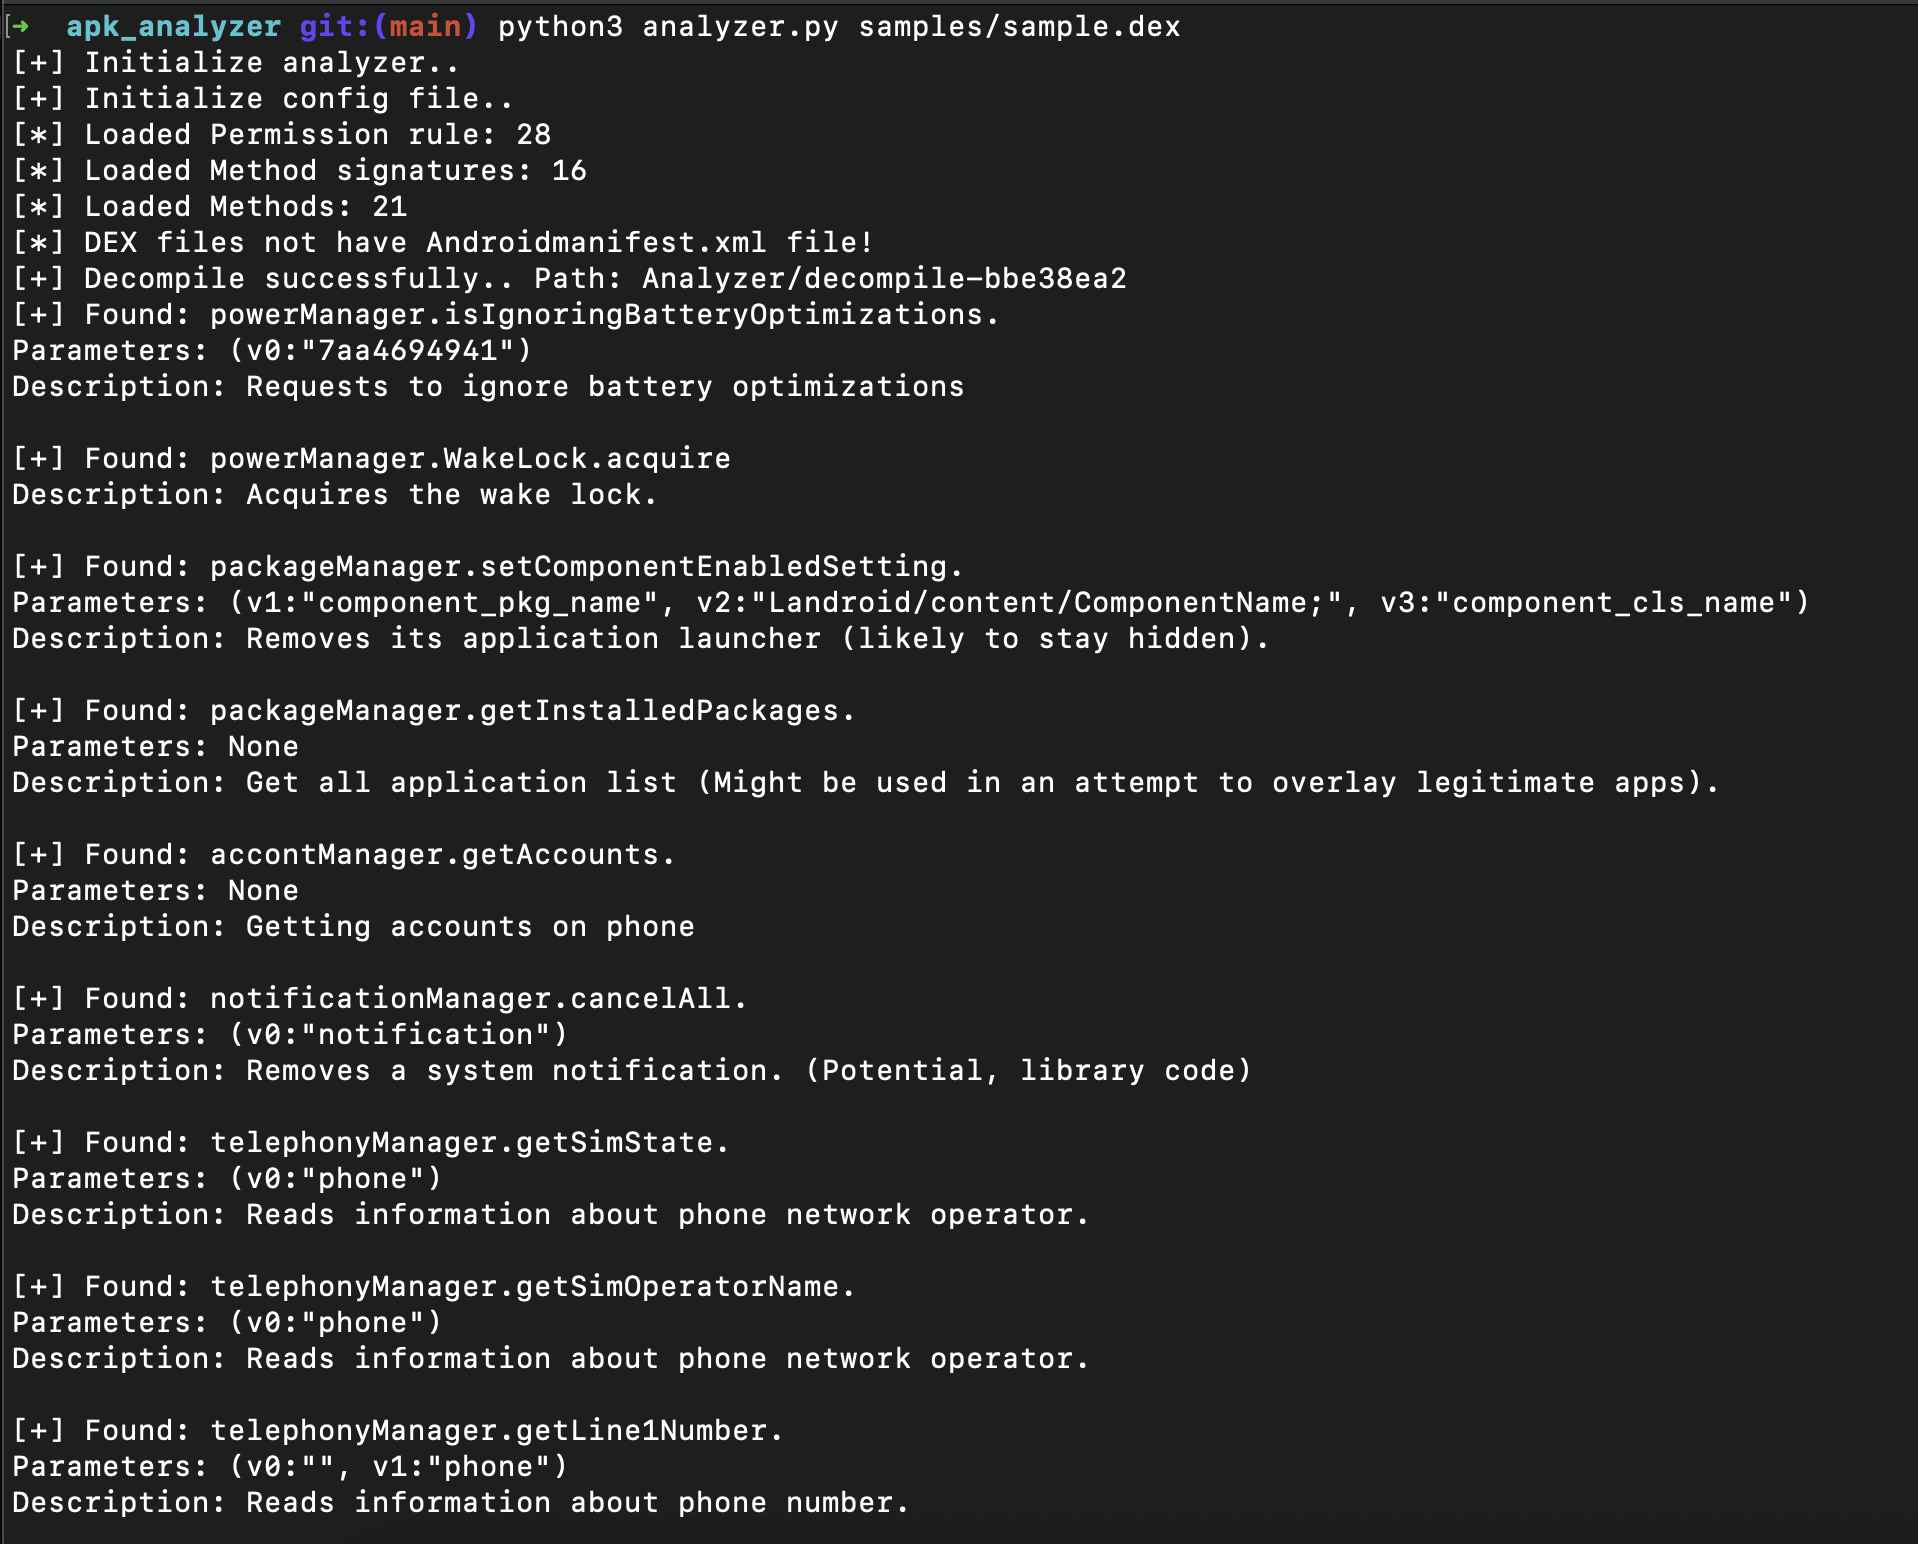
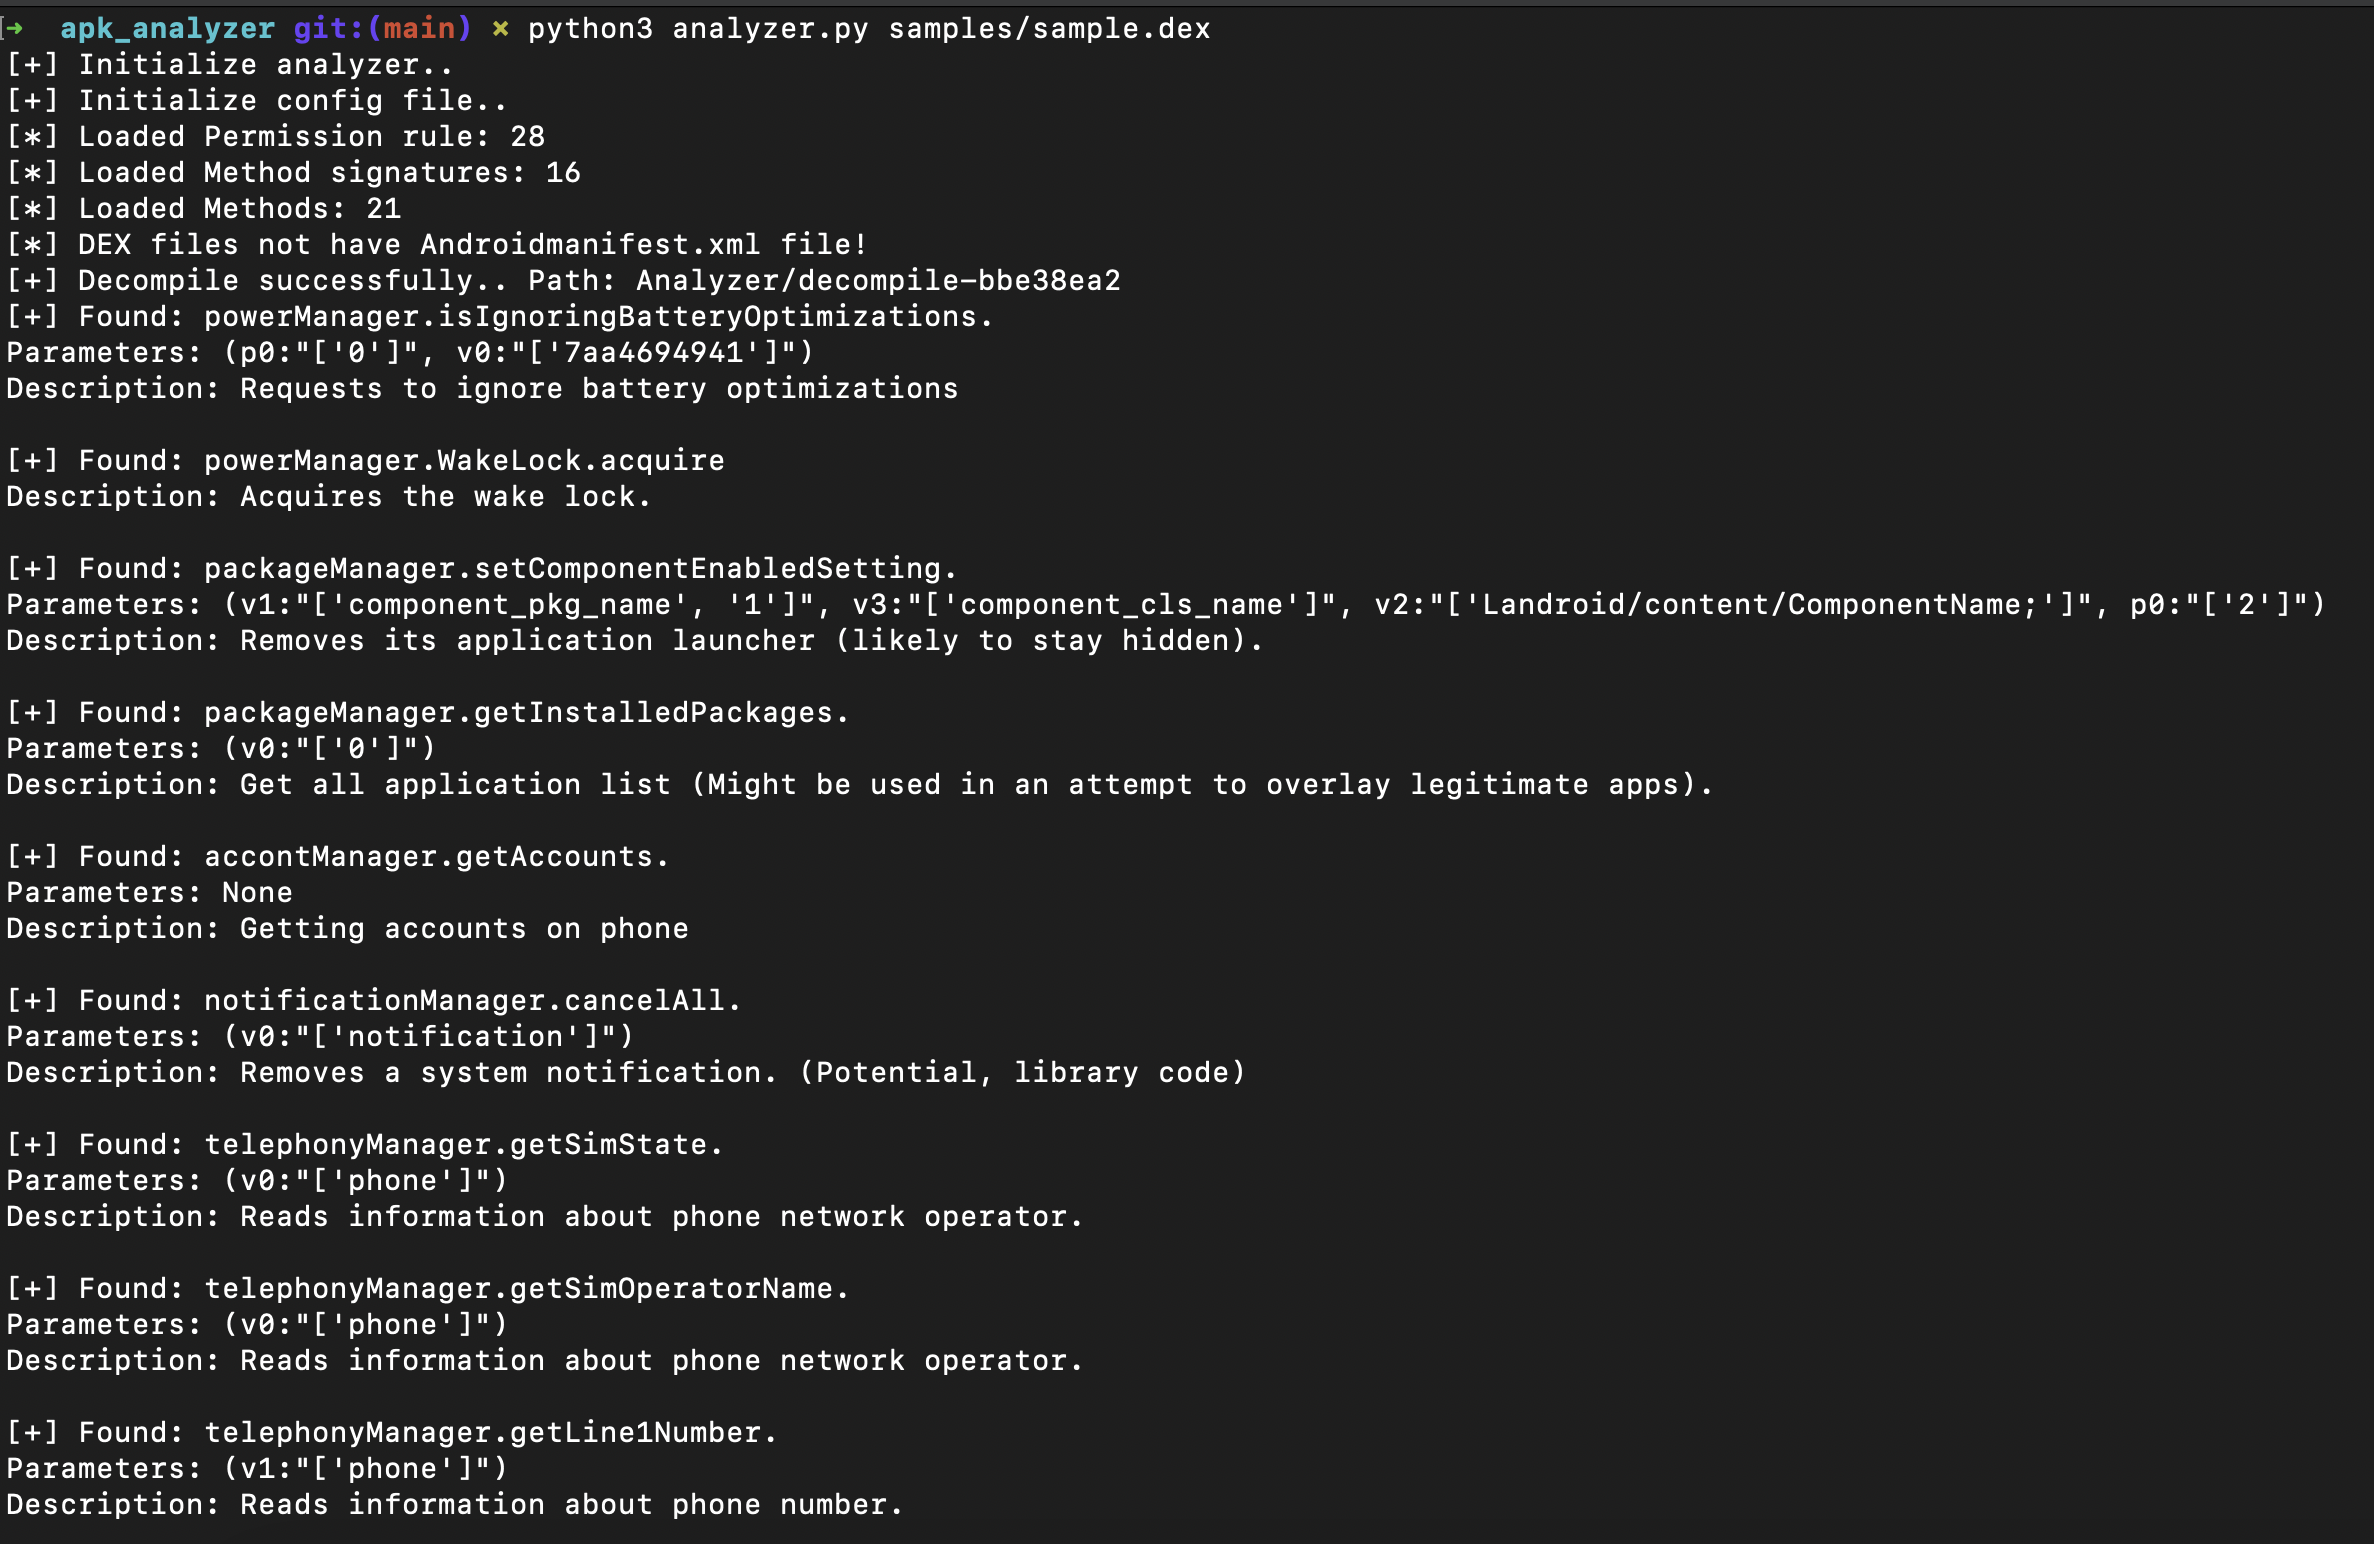
v1

Changed region(s): [[0.0, 0.0, 0.9844, 0.9948]]

diff --git a/analyzer.py b/analyzer.py
@@ -2,6 +2,7 @@ from androguard.misc import AnalyzeAPK
 from androguard.misc import AnalyzeDex
 from pathlib import Path
 from loguru import logger
+from collections import defaultdict
 
 
 import sys
@@ -15,7 +16,7 @@ import argparse
 
 class Analyzer:
     def __init__(self, apkPath, config_file_path, output_dir, debug_mode):
-        self.apk_path = sys.argv[1]
+        self.apk_path = apkPath
         self.output_dir = Path(output_dir)
         self.config_file_path = Path(config_file_path)
         self.debug_mode = debug_mode
@@ -122,10 +123,12 @@ class Analyzer:
                             for key in assignment:
                                 value = assignment[key]
                                 for res_key in res_assignment:
-                                    res_value = res_assignment[res_key]
-                                    if key == res_key:
-                                        if value == res_value:
-                                            ex_founded = False
+                                    res_values = res_assignment[res_key]
+                                    for res_value in res_values:
+                                        if key == res_key:
+                                            print(value, res_value)
+                                            if value == res_value:
+                                                ex_founded = False
 
                         if len(results) != 0 and ex_founded is False:
                             normal_results = "None"
@@ -170,13 +173,18 @@ class Analyzer:
                         if search_query in file.read():
                             return file_path
 
-    def parse_smali_for_method(self, search_invoke) -> set:
+    def parse_smali_for_method(self, search_invoke):
         smali_file_path = self.search_in_smali_files(search_invoke)
         if smali_file_path:
+            assignment_match_regex = (
+                r"(const/\d+|const-string|new-instance|move-result-object)"
+                r" (\w+), \"?([^\"\s]+)\"?"
+            )
             with open(smali_file_path, "r", encoding="utf-8") as file:
                 lines = file.readlines()
 
-            results = {"assignments": {}, "invoke_details": None, "labels": []}
+            results = {"assignments": defaultdict(list),
+                       "invoke_details": None}
             invoke_index = None
 
             for i, line in enumerate(lines):
@@ -190,28 +198,36 @@ class Analyzer:
                     if lines[i].strip().startswith(".method"):
                         method_start = i
                         break
-                    if lines[i].strip().startswith(":L"):
-                        results["labels"].append(lines[i].strip())
 
                 if method_start is not None:
                     for line in lines[method_start:invoke_index]:
                         line_strip = line.strip()
                         assignment_match = re.match(
-                            (r"(const-\d+|const-string|new-instance|move-\w+)"
-                             r" (\w+), (.+)"),
-                            line_strip)
+                            assignment_match_regex,
+                            line_strip,
+                        )
                         if assignment_match:
-                            _, register, value = assignment_match.groups()
-                            results["assignments"][register] = value.strip('"')
+                            opcode, register, value = assignment_match.groups()
+                            results["assignments"][register].append(
+                                value.strip('"')
+                            )
 
                     invoke_line = lines[invoke_index].strip()
                     invoke_match = re.match(r"invoke-\w+ {(.+?)}, (.+)",
                                             invoke_line)
                     if invoke_match:
                         registers, invoke_signature = invoke_match.groups()
+                        register_values = {}
+                        for reg in registers.split(", "):
+                            reg = reg.strip()
+                            if reg in results["assignments"]:
+                                last_value = results["assignments"][reg][-1]
+                                register_values[reg] = last_value
+                            else:
+                                register_values[reg] = "Unknown"
                         results["invoke_details"] = {
                             "signature": invoke_signature,
-                            "registers": registers.split(", ")
+                            "registers": register_values,
                         }
 
             return results
